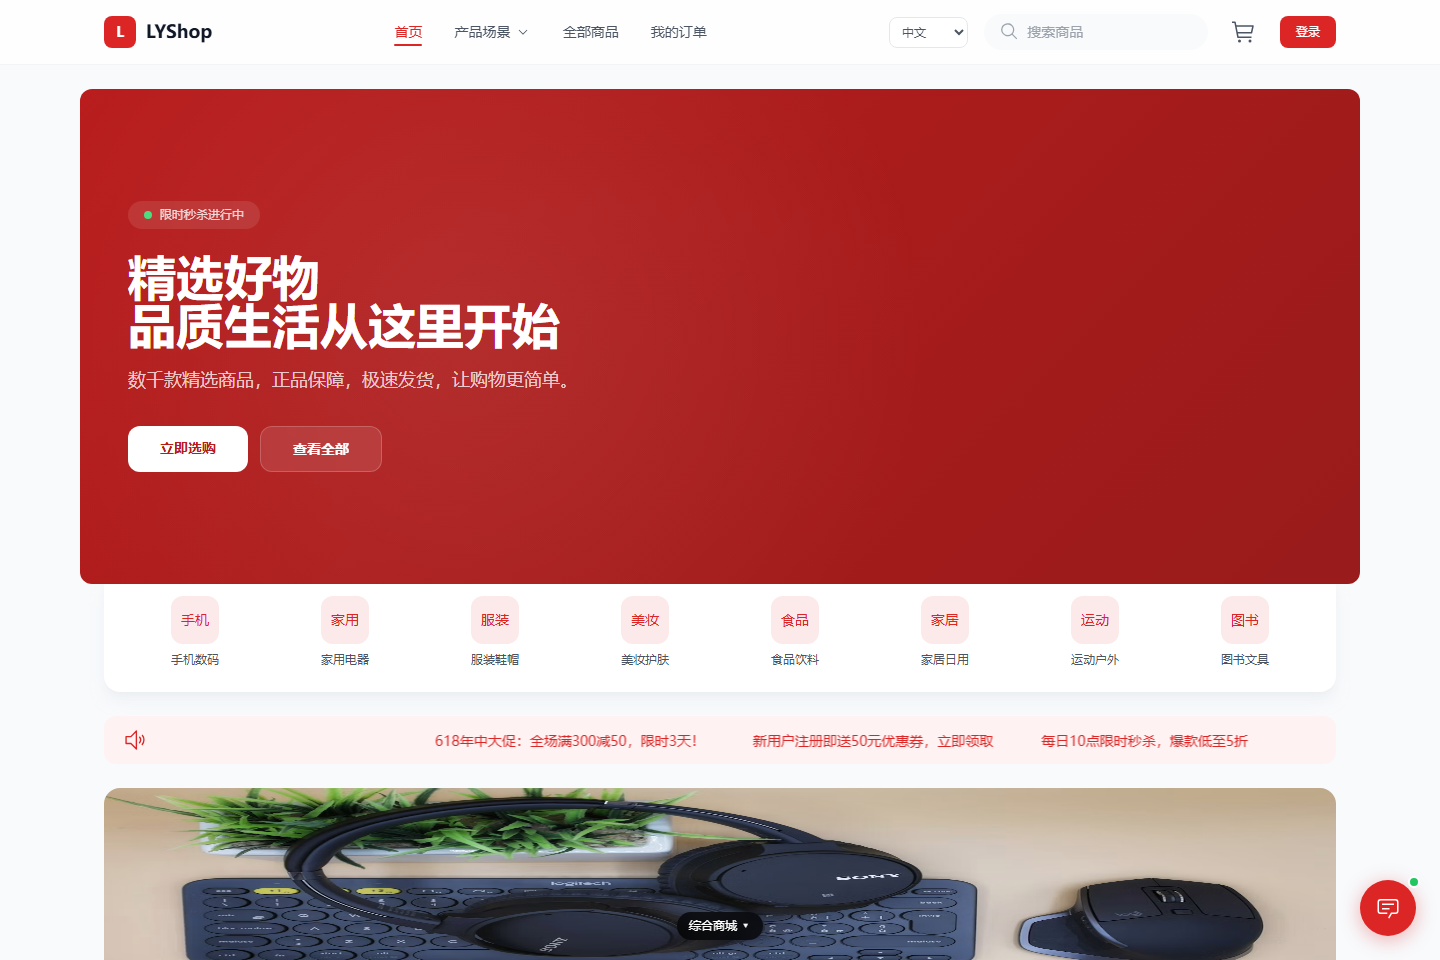
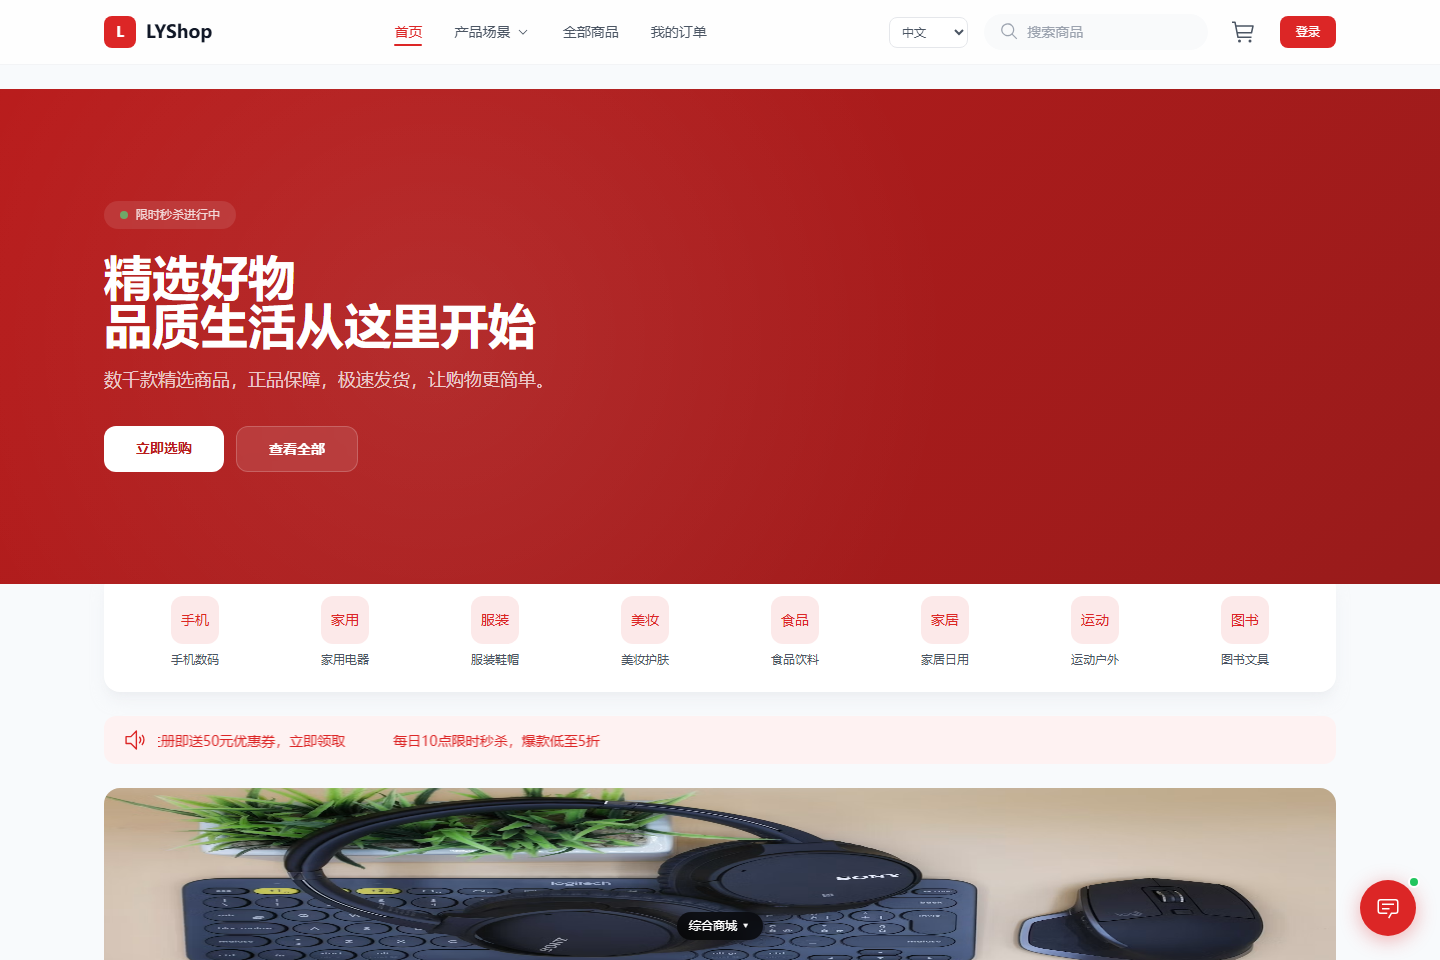
fix(web): 修复 hero 组件被 maxWidth 约束导致两侧留白，改为全宽显示
heroSectionStyle 不再继承 sectionStyle 的 maxWidth/padding，
内层 contentShellStyle 仍负责内容区居中约束。
同步重新截图 web-home.png。

diff --git a/web/src/components/decor/DecorRenderer.vue b/web/src/components/decor/DecorRenderer.vue
@@ -341,9 +341,14 @@ function contentShellStyle(comp: any) {
 }
 
 function heroSectionStyle(comp: any) {
-  const base = sectionStyle(comp) as Record<string, string>
+  // Hero is always full-width; only the inner content shell is constrained
+  const style = comp?.style || {}
+  const page = normalizedPageStyle.value
+  const mt = Number(style.marginTop ?? page.content.sectionGap)
+  const mb = Number(style.marginBottom ?? 0)
   return {
-    ...base,
+    marginTop: `${mt}px`,
+    marginBottom: `${mb}px`,
     background: `linear-gradient(135deg, ${comp.props?.bg_from || 'var(--color-hero-from, #b91c1c)'}, ${comp.props?.bg_to || 'var(--color-hero-to, #991b1b)'})`,
   }
 }